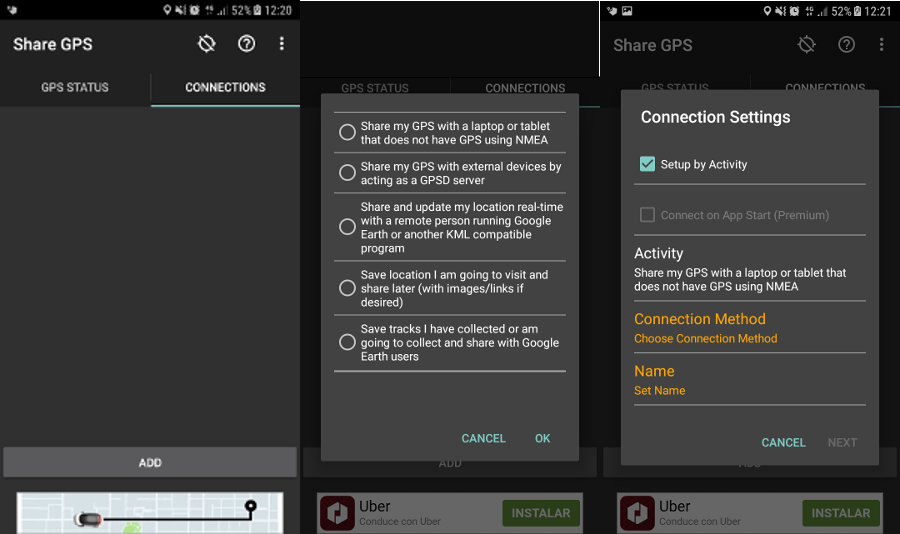
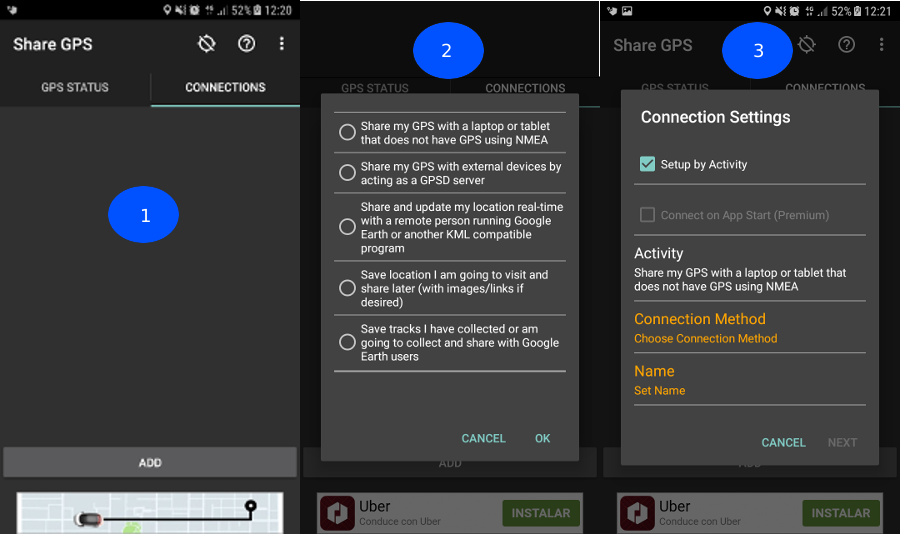
Cap5 completado ShareGPS.

Changed region(s): [[0.7778, 0.03, 0.9022, 0.1498], [0.4356, 0.03, 0.56, 0.1498], [0.0933, 0.3296, 0.2178, 0.4494]]

diff --git a/Cap5/Cap5.rst b/Cap5/Cap5.rst
@@ -281,7 +281,7 @@ La geolocalización por su parte tiene una característica muy específica: nos 
 GPS (Global Positioning System)
 -------------------------------
 
-Es un sistema de localización, diseñado por el Departamento de Defensa de los Estados Unidos. Se encuentra en funcionamiento desde 1995, el cual permite determinarla posición de un objeto en la Tierra (un dispositivo móvil, un vehículo) con una precisión de hasta centímetros utilizando GPS diferencial, aunque por lo general son unos pocos metros de precisión. Para poder determinar las posiciones en el globo, el sistema GPS se sirve de 24 satélites y utiliza la trilateración (Ver  :ref:`trilateracion_satelital`).
+Es un sistema de localización, diseñado por el Departamento de Defensa de los Estados Unidos. Se encuentra en funcionamiento desde 1995, el cual permite determinarla posición de un objeto en la Tierra (un dispositivo móvil, un vehículo) con una precisión de hasta centímetros utilizando GPS diferencial, aunque por lo general son unos pocos metros de precisión. Para poder determinar las posiciones en el globo, el sistema GPS se sirve de 24 satélites y utiliza la trilateración (Ver  ).
 
 Funcionamiento
 ^^^^^^^^^^^^^^
@@ -308,13 +308,7 @@ Arquitectura del sistema GPS
 
 El Sistema de Posicinamiento Global se encuentra conformada por 3 componentes básicos:
 
-* Componente espacial formada por 24 satélites que conforman la red de GPS, con trayectorias sincronizadas para cubrir la totalidad del globo terrestre. Éstos se encuentra organizados en 6 órbitas circulares con 4 satélites cada una, alimentados por paneles solares ubicados a cada uno de los lados de los satélites, a una altitud aproximada de 20.000 km, circulando a una velocidad de 14.500 Km/h y repitiendo el mismo recorrido de manera continua, al mismo tiempo que la Tierra rota sobre su eje, por lo que en aproximadamente 24 hs, cada satélite vuelve a posicionarse sobre el mismo punto. Debido a que el tiempo es necesario para el cálculo, cada satélite posee un reloj atómico de alta precisión (mide el tiempo en nanosegundos). Este componente también es necesario en el dispositivo GPS receptor terrestre, pero debido a que el costo de éstos se incrementaría considerablemente si se añadiera dicho reloj y a que la utilización de un reloj ordinario introduciría un error, el error se corrige por medio del empleo de un satélite adicional.    
-
-  
-.. figure:: ../figs/Cap5/constelacion-satelites-gps.png
-   :scale: 50%
-
-   Constelación de satélites GPS
+* Componente espacial formada por 24 satélites que conforman la red de GPS, con trayectorias sincronizadas para cubrir la totalidad del globo terrestre. Éstos se encuentra organizados en 6 órbitas circulares con 4 satélites cada una, alimentados por paneles solares ubicados a cada uno de los lados de los satélites, a una altitud aproximada de 20.000 km, circulando a una velocidad de 14.500 Km/h y repitiendo el mismo recorrido de manera continua, al mismo tiempo que la Tierra rota sobre su eje, por lo que en aproximadamente 24 hs, cada satélite vuelve a posicionarse sobre el mismo punto. Debido a que el tiempo es necesario para el cálculo, cada satélite posee un reloj atómico de alta precisión (mide el tiempo en nanosegundos). Este componente también es necesario en el dispositivo GPS receptor terrestre, pero debido a que el costo de éstos se incrementaría considerablemente si se añadiera dicho reloj y a que la utilización de un reloj ordinario introduciría un error, el error se corrige por medio del empleo de un satélite adicional.
 
 
 * Componente de control que cuenta con 10 estaciones de monitoreo encargadas de mantener en órbita los satélites y de la supervisión de su funcionamiento.
@@ -339,18 +333,6 @@ El objetivo del calculo del sistema GPS es proporcionar las coordenadas de un re
 
    Empleo de cuatro satélites para el cálculo de la posición de un punto.
 
-
-.. Para determinar la ubicación de un receptor GPS se utiliza la trilateración satelital que tiene su base en el método matemático trilateración comentado previamente. Se denomina trilateración satelital ya que en este caso los puntos de referencia son satélites en el espacio. Para llevar a cabo este proceso, 
-
-.. Principio no....
-
-.. La base para determinar la posición de un receptor GPS es la trilateración a partir de la referencia proporcionada por los satélites en el espacio. Para llevar a cabo el proceso de trilateración, el receptor GPS calcula la distancia hasta el satélite midiendo el tiempo que tarda la señal en llegar hasta él. Para ello, el GPS necesita un sistema muy preciso para medir el tiempo. Además, es preciso conocer la posición exacta del satélite. Finalmente, la señal recibida debe corregirse para eliminar los retardos ocasionados.
-
-.. Una vez que el receptor GPS recibe la posición de al menos cuatro satélites y conoce su distancia hasta cada uno de ellos, puede determinar su posición superponiendo las esferas imaginarias que generan.
-.. Podemos comprender mejor esta explicación con un ejemplo. Imaginemos que nos encontramos a 21.000 km de un primer satélite. Esta distancia nos indica que podemos encontrarnos en cualquier punto de la superficie de una esfera imaginaria de 21.000 km de radio. Ahora, imaginemos que nos encontramos a 24.000 km de un segundo satélite. De este modo, también nos encontramos en cualquier punto de la superficie de esta segunda esfera imaginaria de 24.000 km de radio. La intersección de estas dos esferas generará un círculo que disminuirá las posibilidades de situar nuestra posición. Por otro lado, imaginemos que un tercer satélite se encuentra a 26.000 km. Ahora nuestras posibilidades de posición se reducen a dos puntos, aquellos donde se unen la tercera esfera y el círculo generado por las otras dos. Aunque uno de estos dos puntos seguramente dará un valor absurdo (lejos de la Tierra, por ejemplo) y puede ser rechazado sin más, necesitamos un cuarto satélite que determine cuál de ellos es el correcto, si bien no es necesario por la razón anteriormente mencionada. A pesar de su aparente falta de utilidad, este cuarto satélite tendrá una función crucial en la medición de nuestra posición, como se verá más adelante. 
-
-.. Fin Principio no....
-
 Fuentes de error
 """"""""""""""""
 
@@ -374,9 +356,7 @@ Este tipo de error se produce, ya que la señal emitida desde el satélite puede
 
 **Errores de orbitales**
 
-.. TODO: ACLARAR POR QUE MOTIVO SE INTRODUCEN LOS ERRORES?
-
-Se trata de un error o variación de los parámetros orbitales del satélite consultado, muchos de estos errores son puestos a propósito por el Departamento de Defensa de los Estados Unidos y pueden ser diferentes por cada consulta que le hiciera a dicho saélite.
+Se trata de un error o variación de los parámetros orbitales del satélite consultado. Esto es debido que, los satélites siguen órbitas estables fuera de la atmósfera terrestre y las fuerzas que actúan sobre ellos son demasiadas (por ejemplo, variaciones en el campo gravitatorio) que es difícil los cambios que estos pueden sufrir. Por otro lado, muchos de estos errores son puestos a propósito por el Departamento de Defensa de los Estados Unidos y pueden ser diferentes por cada consulta que le hiciera a dicho saélite.
 
 **Geometría de los satélites visibles**
 
@@ -431,12 +411,21 @@ Formato mediante el cual se estructuran los datos de localización que son compa
 
 * NMEA 0183
 
-Formato estándar para los datos GPS.
+Estándar de interfaz que define los requisitos de señal eléctrica, tiempo y protocolo de transmisión de datos y el formato de las sentencias de caracteres ASCII transmitidos a través de un bus de datos en serie.
 
-* KML PlaceMark (Keyhole Markup Language)
+Cada una de las sentencias transmitida comienza con el carácter "$" y termina "<CR><LF>" (CR: Carriage Return, LF: Line Feed). Los dos primeros caracteres identifican al equipo (por ejemplo "GP" utilizado para  identificar los datos GPS) y los siguientes tres caracteres se utilizan para identificar el tipo de sentencia enviada.
 
+Para conocer más detalles acerca de NMEA 0183 ver http://www.gpsinformation.org/dale/nmea.htm.
+
+
+* OGC KML (Keyhole Markup Language)
+
+Estándar que permite compartir datos de información geográfica, enfocándose en la visualizaciones de estos. La estructura de KML consta de etiquetas con atributos y elementos anidados y está basdo en XML.
+
+.. http://kml4earth.appspot.com/kmlErrata.html
+.. http://www.opengeospatial.org/standards/kml/
+.. https://earthdata.nasa.gov/user-resources/standards-and-references/ogc-kml
 .. KML refrence: https://developers.google.com/kml/documentation/kmlreference?hl=es-419
-.. A track describes how an object moves through the world over a given time period. This feature allows you to create one visible object in Google Earth (either a Point icon or a Model) that encodes multiple positions for the same object for multiple times. In Google Earth, the time slider allows the user to move the view through time, which animates the position of the object.
 
 Tipos de conexión
 """""""""""""""""
@@ -506,13 +495,19 @@ Opcional, para el caso del presente trabajo, se utilizó el siguiente módulo de
 
 Tercer paso, una vez instalado el software necesario, asegurarse que el dispositivo móvil al cual se conectará tenga habilitado la opción de depuración de USB. Luego, proceder a la conexiones a través del cable USB.
  
-Cuarto paso, abrir la aplicación ShareGPS en el dispositivo móvil y crear una conexión NMEA USB.
+Cuarto paso, abrir la aplicación ShareGPS en el dispositivo móvil y crear una conexión NMEA USB (ver :num:`Fig. #sharegps1` y :num:`Fig. #sharegps2`).
 
+.. _sharegps1:
+.. figure:: ../figs/Cap5/share_gps(1).png
+   :scale: 40%
 
-.. figure:: ../figs/Cap5/share_gps_connection.png
-   :scale: 20%
+   Pasos para agregar conexión a ShareGPS, primera parte. (1) Comenzar agregando una conexión, click ADD. (2) Seleccionar el tipo de conexión (GPS using NMEA). (3) Muestra el tipo de conexión seleccionada. Si no es la conexión que desea utilizar, click en Activity para vovler a cambiar.
 
-   Imagen que muestra una conexión NMEA USB creada.
+.. _sharegps2:
+.. figure:: ../figs/Cap5/share_gps(1).png
+   :scale: 40%
+
+   Pasos para agregar conexión a ShareGPS, segunda parte. (4) Después, de hacer click en Conection Method seleccionamos USB. (5) Luego, de seleccionar el métod de conexión, en el caso de USB, pedirá la asignación de un número de Port. (6) Por último, le asignamos un nombre a la conexión haciendo click en Name. Click en Next y tendremos una conexión configurada. 
 
 $ adb devices
 
@@ -525,7 +520,67 @@ $ gpsd -D5 -N -n -b tcp://localhost:20175
 
 $ gpsd -b tcp://localhost:20175
 
-Por último, el consumo de los datos se utilizó...
+Por último, el consumo de los datos se utilizó como base el siguiente script escrito en lenguaje de programación Python:
+
+Ejemplo::
+
+   #!/usr/bin/env python
+   # -*- coding: utf-8 -*-
+   import time
+   import gps
+   import sys
+
+   # python gpsd.py ./gps.kml 
+   def main(gpsd_report):
+       '''http://code.google.com/apis/kml/documentation/kmlreference.html
+          for official kml document'''
+
+       if len (sys.argv) < 2:
+            print "Usage: gpsd.py [kml-file]"
+            sys.exit();
+
+       print gpsd_report
+       if not 'lat' in gpsd_report.keys():
+           return
+       kml_file = sys.argv[1]
+       latitude =  gpsd_report['lat']
+       longitude = gpsd_report['lon']
+
+           output = """<?xml version="1.0" encoding="UTF-8"?>
+       <kml xmlns="http://earth.google.com/kml/2.0">
+       <Placemark>
+           <description>Realtime GPS feeding</description>
+           <LookAt>
+               <longitude>%s</longitude>
+               <latitude>%s</latitude>
+           </LookAt>
+           <Point>
+               <coordinates>%s,%s</coordinates>
+           </Point>
+       </Placemark>
+       </kml>""" % (longitude,latitude,longitude,latitude)
+
+           #status_line = '<{0}> Speed: {1:.2f} Km/h, Heading: {2:.0f}'.format(time_str,
+           #                                                      speed, heading)
+           #print status_line
+           f = open(kml_file, 'w')
+           f.write(output)
+           f.close()
+
+       if __name__ == "__main__":
+           session = gps.gps()
+           session.stream(gps.WATCH_ENABLE|gps.WATCH_NEWSTYLE)
+
+           try:
+               while True:
+                   report = session.next()
+                   print report
+                   if report['class'] == 'TPV':
+                       main(report)
+           except StopIteration:
+               print 'GPSD has terminated'
+
+
 
 .. http://www.jillybunch.com/sharegps/nmea-usb-linux.html
 
